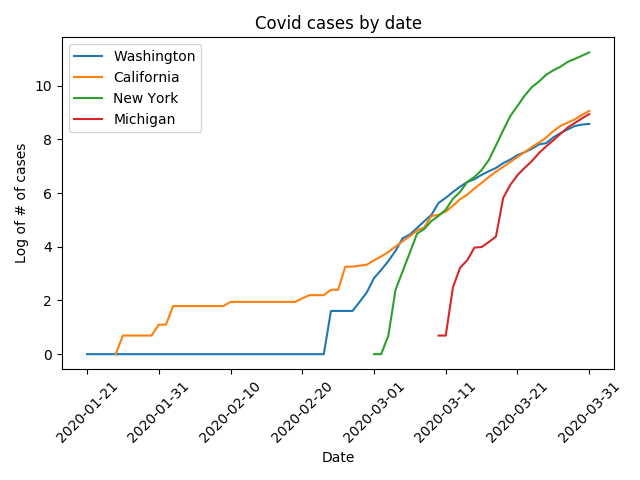
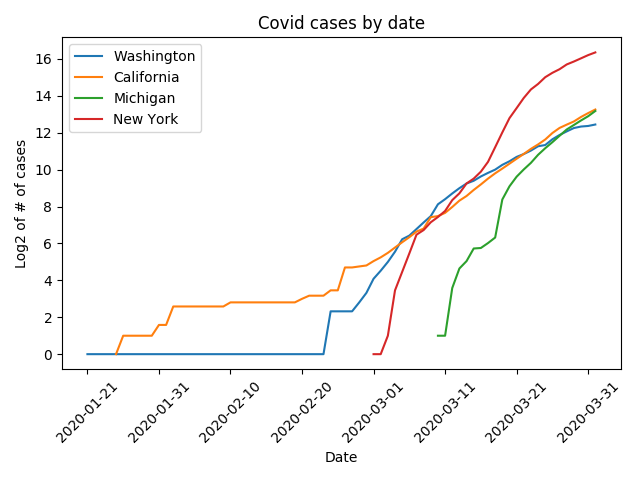
Adding command line args

diff --git a/process_data.py b/process_data.py
@@ -1,17 +1,18 @@
 import pandas as pd
 import matplotlib.pyplot as plt
 import numpy as np
+import argparse
 
 
 def main(states=None):
     df = pd.read_csv('covid-19-data/us-states.csv')
     for state in states:
         df_state = df[df.state == state]
-        plt.plot(df_state.date, np.log(df_state.cases), label=state)
+        plt.plot(df_state.date, np.log2(df_state.cases), label=state)
     x_ticks, _ = plt.xticks()
     plt.xticks(x_ticks[::10], rotation=45)
     plt.title('Covid cases by date')
-    plt.ylabel('Log of # of cases')
+    plt.ylabel('Log2 of # of cases')
     plt.xlabel('Date')
     plt.legend(loc='best')
     plt.tight_layout()
@@ -19,4 +20,8 @@ def main(states=None):
 
 
 if __name__ == '__main__':
-    main(states=['Washington', 'California', 'New York', 'Michigan'])
+    parser = argparse.ArgumentParser()
+    parser.add_argument('--states', type=str, dest='states', required=True, help='Comma delimited string of states')
+    args = parser.parse_args()
+    states = [s.strip() for s in args.states.split(',')]
+    main(states=states)

diff --git a/README.md b/README.md
@@ -6,11 +6,18 @@ simple graph of Covid cases by time for a set of states.
 To run:
 
 ```
+usage: process_data.py [-h] --states STATES
+
+optional arguments:
+  -h, --help       show this help message and exit
+  --states STATES  Comma delimited string of states
+```
+
+### Virtual env setup
+The dependencies are contained in the `requirements.txt file.
+
+```Bash
 python3 -m venv .venv
 source .venv/bin/activate
 pip install -r requirements.txt
-python process_data.py
 ```
-
-THe plot should be available in `plots/covid_plot.png`. You can customize the states that you want to consider by
-updating the list of states in `process_data.py` file. 
